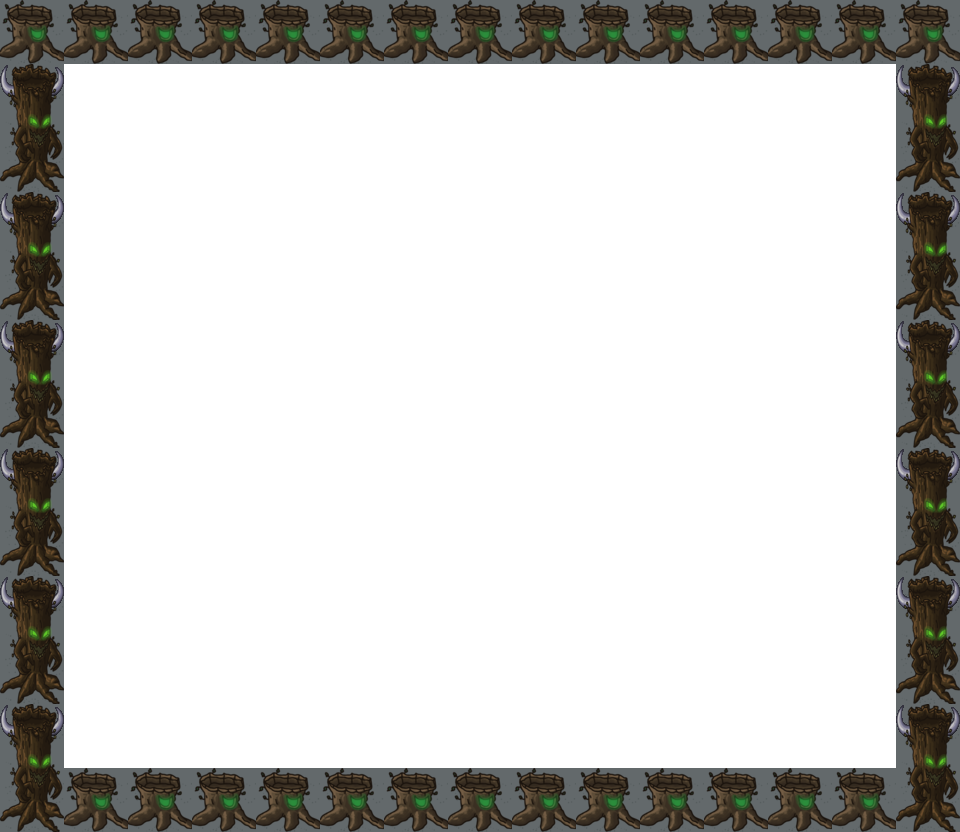
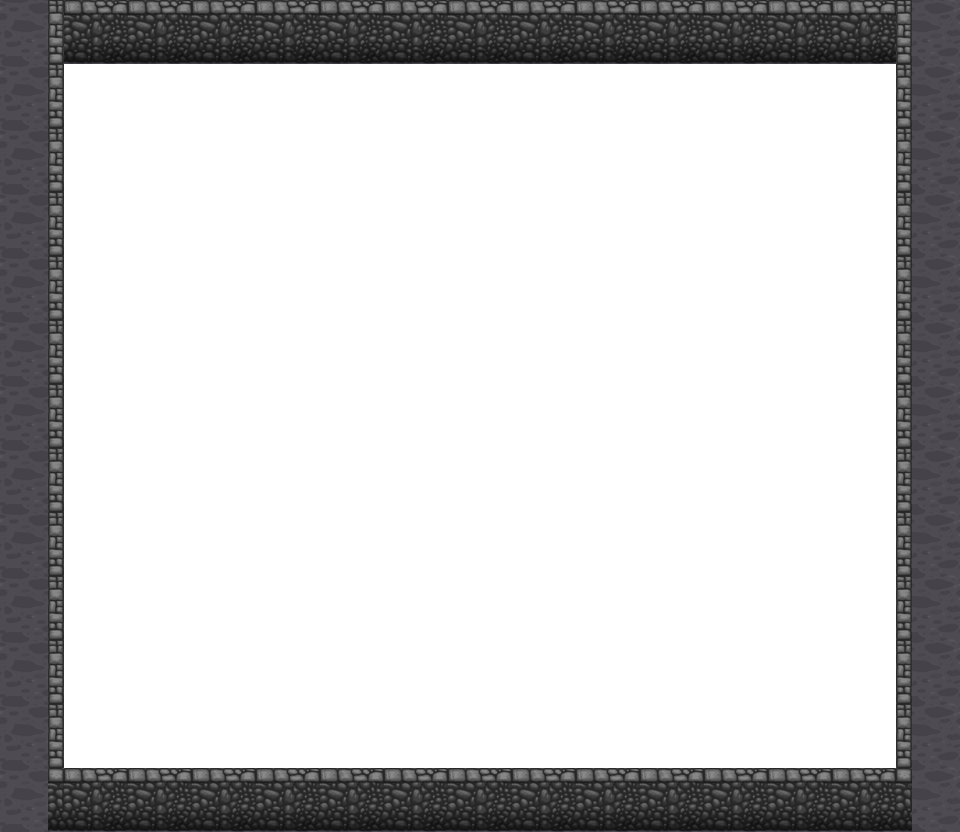
cc

Changed region(s): [[0.0, 0.0, 1.0, 1.0]]

diff --git a/src/view/ResourceLoader.java b/src/view/ResourceLoader.java
@@ -202,92 +202,75 @@ public class ResourceLoader {
         System.out.println("ResourceLoader: Tutti i temi mappa caricati con successo!");
     }
 
-    // ==========================================================
-    // METODI OPERAI (Logica specifica per ogni singolo tema)
-    // ==========================================================
-
+    // ---------------------------------------------------------
+    // 1. TEMA VILLAGGIO
+    // ---------------------------------------------------------
     private void loadVillageTheme(SpriteManager sm) {
         int size = utils.Config.TILE_SIZE;
-        BufferedImage[] villageTiles = new BufferedImage[4];
+        BufferedImage[] villageTiles = new BufferedImage[utils.Config.THEME_FRAME_INDEX + 1];
 
-        // 0: Pavimento
-        villageTiles[utils.Config.CELL_EMPTY] = sm.extractTile(
-                Config.VILLAGE_SHEET, utils.Config.VILLAGE_FLOOR_COL, utils.Config.VILLAGE_ROW, size, size);
+        villageTiles[utils.Config.CELL_EMPTY] = sm.extractTile(Config.VILLAGE_SHEET, utils.Config.VILLAGE_FLOOR_COL, utils.Config.VILLAGE_ROW, size, size);
+        villageTiles[utils.Config.CELL_INDESTRUCTIBLE_BLOCK] = sm.extractTile(utils.Config.VILLAGE_SHEET, utils.Config.VILLAGE_WALL_IND_COL, utils.Config.VILLAGE_ROW, size, size);
+        villageTiles[utils.Config.CELL_DESTRUCTIBLE_BLOCK] = sm.extractTile(utils.Config.VILLAGE_SHEET, utils.Config.VILLAGE_WALL_DEST_COL, utils.Config.VILLAGE_ROW, size, size);
 
-        // 1: Muro Indistruttibile
-        villageTiles[utils.Config.CELL_INDESTRUCTIBLE_BLOCK] = sm.extractTile(
-                Config.VILLAGE_SHEET, utils.Config.VILLAGE_WALL_IND_COL, utils.Config.VILLAGE_ROW, size, size);
+        // Ornamento: Torre (128x128) - Seconda immagine nello sheet Ornaments
+        villageTiles[utils.Config.CELL_ORNAMENT] = sm.extractTile(utils.Config.ORNAMENTS_SHEET, 1, 0, 128, 128);
 
-        // 2: Muro Distruttibile
-        villageTiles[utils.Config.CELL_DESTRUCTIBLE_BLOCK] = sm.extractTile(
-                Config.VILLAGE_SHEET, utils.Config.VILLAGE_WALL_DEST_COL, utils.Config.VILLAGE_ROW, size, size);
-
-        // 3: Cornice
-        villageTiles[utils.Config.THEME_FRAME_INDEX] = view.ResourceManager.loadImage(utils.Config.VILLAGE_FRAME);
-
+        villageTiles[utils.Config.THEME_FRAME_INDEX] = view.ResourceManager.loadImage(utils.Config.VILLAGE_FRAME + ".png");
         TileManager.getInstance().loadTheme("VILLAGE", villageTiles);
-        System.out.println("  -> Tema 'VILLAGE' caricato.");
     }
 
+    // ---------------------------------------------------------
+    // 2. TEMA FORESTA
+    // ---------------------------------------------------------
     private void loadForestTheme(SpriteManager sm) {
         int size = utils.Config.TILE_SIZE;
-        BufferedImage[] forestTiles = new BufferedImage[4];
+        BufferedImage[] forestTiles = new BufferedImage[utils.Config.THEME_FRAME_INDEX + 1];
 
-        // 0: Pavimento
-        forestTiles[utils.Config.CELL_EMPTY] = sm.extractTile(
-                utils.Config.FOREST_SHEET, utils.Config.FOREST_FLOOR_COL, utils.Config.FOREST_ROW, size, size);
+        forestTiles[utils.Config.CELL_EMPTY] = sm.extractTile(utils.Config.FOREST_SHEET, utils.Config.FOREST_FLOOR_COL, utils.Config.FOREST_ROW, size, size);
+        forestTiles[utils.Config.CELL_INDESTRUCTIBLE_BLOCK] = sm.extractTile(utils.Config.FOREST_SHEET, utils.Config.FOREST_WALL_IND_COL, utils.Config.FOREST_ROW, size, size);
+        forestTiles[utils.Config.CELL_DESTRUCTIBLE_BLOCK] = sm.extractTile(utils.Config.FOREST_SHEET, utils.Config.FOREST_WALL_DEST_COL, utils.Config.FOREST_ROW, size, size);
 
-        // 1: Muro Indistruttibile
-        forestTiles[utils.Config.CELL_INDESTRUCTIBLE_BLOCK] = sm.extractTile(
-                utils.Config.FOREST_SHEET, utils.Config.FOREST_WALL_IND_COL, utils.Config.FOREST_ROW, size, size);
+        // Ornamento: Albero Gigante (128x128) - Prima immagine nello sheet Ornaments
+        forestTiles[utils.Config.CELL_ORNAMENT] = sm.extractTile(utils.Config.ORNAMENTS_SHEET, 0, 0, 128, 128);
 
-        // 2: Muro Distruttibile
-        forestTiles[utils.Config.CELL_DESTRUCTIBLE_BLOCK] = sm.extractTile(
-                utils.Config.FOREST_SHEET, utils.Config.FOREST_WALL_DEST_COL, utils.Config.FOREST_ROW, size, size);
-
-        // 3: Cornice
-        forestTiles[utils.Config.THEME_FRAME_INDEX] = view.ResourceManager.loadImage(utils.Config.FOREST_FRAME);
-
+        forestTiles[utils.Config.THEME_FRAME_INDEX] = view.ResourceManager.loadImage(utils.Config.FOREST_FRAME + ".png");
         TileManager.getInstance().loadTheme("FOREST", forestTiles);
-        System.out.println("  -> Tema 'FOREST' caricato.");
     }
 
+    // ---------------------------------------------------------
+    // 3. TEMA CAVERNA
+    // ---------------------------------------------------------
     private void loadCaveTheme(SpriteManager sm) {
         int size = utils.Config.TILE_SIZE;
+        int bSize = utils.Config.CAVE_BUILDING_SIZE; // 128 pixel per l'edificio gigante
 
-        // ARRAY PIÙ GRANDE! Adesso è 11 per fare spazio alla cornice all'indice 10
-        BufferedImage[] caveTiles = new BufferedImage[11];
+        // Array del tema (fino all'indice 30 per la cornice)
+        BufferedImage[] caveTiles = new BufferedImage[utils.Config.THEME_FRAME_INDEX + 1];
 
-        // 0: Pavimento
-        caveTiles[utils.Config.CELL_EMPTY] = sm.extractTile(
-                utils.Config.CAVE_SHEET, utils.Config.CAVE_FLOOR_COL, utils.Config.CAVE_ROW, size, size);
+        // --- A. CARICAMENTO BLOCCHI BASE (0-4) ---
+        caveTiles[utils.Config.CELL_EMPTY] = sm.extractTile(utils.Config.CAVE_SHEET + ".png", utils.Config.CAVE_FLOOR_COL, utils.Config.CAVE_ROW, size, size);
+        caveTiles[utils.Config.CELL_INDESTRUCTIBLE_BLOCK] = sm.extractTile(utils.Config.CAVE_SHEET + ".png", utils.Config.CAVE_WALL_IND_COL, utils.Config.CAVE_ROW, size, size);
+        caveTiles[utils.Config.CELL_DESTRUCTIBLE_BLOCK] = sm.extractTile(utils.Config.CAVE_SHEET + ".png", utils.Config.CAVE_WALL_DEST_COL, utils.Config.CAVE_ROW, size, size);
+        caveTiles[utils.Config.CELL_CRACKED_FLOOR] = sm.extractTile(utils.Config.CAVE_SHEET + ".png", utils.Config.CAVE_CRACKED_FLOOR_COL, utils.Config.CAVE_ROW, size, size);
+        caveTiles[utils.Config.CELL_LAVA_FLOOR] = sm.extractTile(utils.Config.CAVE_SHEET + ".png", utils.Config.CAVE_LAVA_FLOOR_COL, utils.Config.CAVE_ROW, size, size);
 
-        // 1: Muro Indistruttibile
-        caveTiles[utils.Config.CELL_INDESTRUCTIBLE_BLOCK] = sm.extractTile(
-                utils.Config.CAVE_SHEET, utils.Config.CAVE_WALL_IND_COL, utils.Config.CAVE_ROW, size, size);
+        // --- B. CARICAMENTO EDIFICIO ANIMATO (6-22) ---
+        // Usiamo il tuo metodo ufficiale per caricare l'animazione nello SpriteManager
+        sm.loadAnimation("CAVE_BUILDING", utils.Config.CAVE_SKELETON_SHEET + ".png", 0, utils.Config.SKELETON_FRAMES_COUNT, bSize);
 
-        // 2: Muro Distruttibile
-        caveTiles[utils.Config.CELL_DESTRUCTIBLE_BLOCK] = sm.extractTile(
-                utils.Config.CAVE_SHEET, utils.Config.CAVE_WALL_DEST_COL, utils.Config.CAVE_ROW, size, size);
+        // Ora estraiamo i frame appena caricati e li "mappiamo" nell'array del tema
+        for (int i = 0; i < utils.Config.SKELETON_FRAMES_COUNT; i++) {
+            // Recuperiamo il singolo frame tramite getSprite (metodo pubblico)
+            caveTiles[utils.Config.CELL_SKELETON_START + i] = sm.getSprite("CAVE_BUILDING", i);
+        }
 
-        // ---------------------------------------------------------
-        // NUOVI BLOCCHI CAVERNA
-        // ---------------------------------------------------------
-        // 3: Pavimento con Crepe
-        caveTiles[utils.Config.CELL_CRACKED_FLOOR] = sm.extractTile(
-                utils.Config.CAVE_SHEET, utils.Config.CAVE_CRACKED_FLOOR_COL, utils.Config.CAVE_ROW, size, size);
+        // --- C. CORNICE (30) ---
+        caveTiles[utils.Config.THEME_FRAME_INDEX] = view.ResourceManager.loadImage(utils.Config.CAVE_FRAME + ".png");
 
-        // 4: Pavimento con Lava
-        caveTiles[utils.Config.CELL_LAVA_FLOOR] = sm.extractTile(
-                utils.Config.CAVE_SHEET, utils.Config.CAVE_LAVA_FLOOR_COL, utils.Config.CAVE_ROW, size, size);
-
-        // ---------------------------------------------------------
-        // 10: Cornice
-        caveTiles[utils.Config.CAVE_FRAME_INDEX] = view.ResourceManager.loadImage(utils.Config.CAVE_FRAME);
-
+        // Salviamo tutto nel TileManager
         TileManager.getInstance().loadTheme("CAVE", caveTiles);
-        System.out.println("  -> Tema 'CAVE' caricato (con lava e crepe).");
     }
-
-
 }
+
+

diff --git a/src/utils/Config.java b/src/utils/Config.java
@@ -76,10 +76,19 @@ public class Config {
     public static final String FOREST_SHEET = "/Forest.png";
     public static final String FOREST_FRAME="/ForestFrame.png";
     public static final int FOREST_FRAME_INDEX = 4;// Il tuo file unico
-    public  static final int THEME_FRAME_INDEX = 3;
+    public  static final int THEME_FRAME_INDEX = 30;
 
     public static final String CAVE_SHEET = "/Forest.png";
     public static final String CAVE_FRAME="/CaveFrame.png";
+
+    public static final String ORNAMENTS_SHEET = "/Ornaments.png";
+    public static final String CAVE_SKELETON_SHEET = "/CaveSkeleton.png";
+    public static final int CELL_ORNAMENT = 5;
+    public static final int CELL_SKELETON_START = 6;
+    public static final int SKELETON_FRAMES_COUNT = 17;
+    // Nel file Config.java aggiungi/modifica:
+    public static final int CAVE_BUILDING_SIZE = 128; // Dimensione dell'edificio animato
+    public static final int SKELETON_SHEET_COLS = 6;
 
 
 
